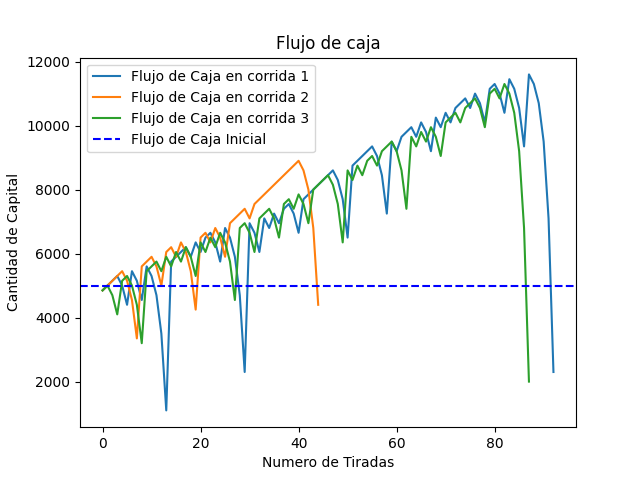
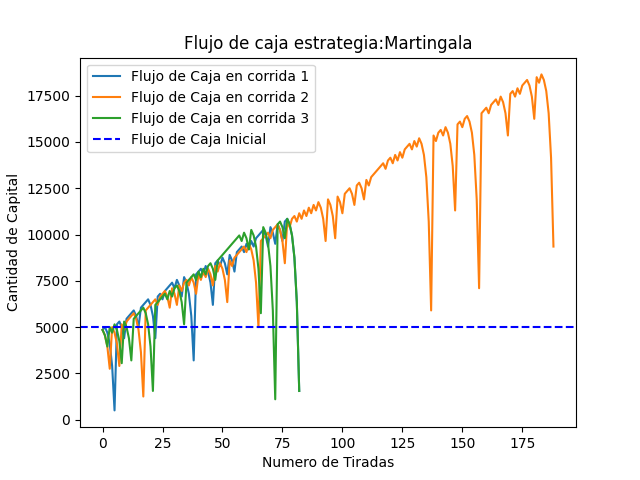
Graficas correctas

diff --git a/ruleta_1.2.py b/ruleta_1.2.py
@@ -26,6 +26,14 @@ def seq_fibonacci(n):
         fib_sequence.append(next_fib)
     return fib_sequence
 
+
+nombres_estrategia={
+'m':'Martingala',
+'f':'Fibonacci',
+'d':'Dalembert',
+'l':'Labouchere'
+}
+
 def martingala():
     monto=monto_inicial
     apuesta=apuesta_gral
@@ -207,18 +215,19 @@ def labouchere_infi():
         montoTotal.append(monto)
     return montoTotal, frecuencia
 
-def plot_flujo_caja(montoTotalCorrida,title,filename):
+def plot_flujo_caja(montoTotalCorrida,filename,estrategia):
     for i, montoTotal in enumerate(montoTotalCorrida):
         plt.plot(montoTotal,label=f'Flujo de Caja en corrida {i +1}')
     plt.xlabel('Numero de Tiradas')
     plt.ylabel('Cantidad de Capital')
-    plt.title(title)
+    nombre_estrategia=nombres_estrategia.get(estrategia,estrategia)
+    plt.title(f'Flujo de caja estrategia:{nombre_estrategia}')
     plt.axhline(y=monto_inicial, color='blue', linestyle='--',label='Flujo de Caja Inicial')
     plt.legend()
     plt.savefig(filename)
     plt.show()
 
-def plot_frecuencia_relativa(frecuencia,tiradas,corrida):
+def plot_frecuencia_relativa(frecuencia,tiradas,corrida,estrategia):
     vu, fr=np.unique(frecuencia,return_counts=True)   
     frec_rel=[]    
     for i in range(0,len(fr)):
@@ -227,10 +236,11 @@ def plot_frecuencia_relativa(frecuencia,tiradas,corrida):
     plt.xlabel('Numero de Tiradas')
     plt.ylabel('Frecuencia Relativa')
     plt.ylim(0,0.25)
-    plt.title('Frecuencia relativa de obtener apuesta favorable')
-    plt.savefig(f'grafica_frecuencia_relativa_estrategia_{estrategia}_capita_{capital}_corrida_{corrida}.png')        
+    nombre_estrategia=nombres_estrategia.get(estrategia,estrategia)
+    plt.title(f'Frecuencia relativa de obtener apuesta favorable en la corrida {corrida}-Estrategia:{nombre_estrategia}')
+    plt.savefig(f'grafica_frecuencia_relativa_estrategia_{nombre_estrategia}_capita_{capital}_corrida_{corrida}.png')        
     plt.show()
-def plot_frecuencia_relativa_infi(frecuencia,corrida):
+def plot_frecuencia_relativa_infi(frecuencia,corrida,estrategia):
     vu, fr=np.unique(frecuencia,return_counts=True)   
     frec_rel=[]    
     for i in range(0,len(fr)):
@@ -238,9 +248,10 @@ def plot_frecuencia_relativa_infi(frecuencia,corrida):
     plt.bar(vu, frec_rel, color='blue')
     plt.xlabel('Numero de Tiradas')
     plt.ylabel('Frecuencia Relativa')
-    plt.ylim(0,0.25)
-    plt.title('Frecuencia relativa de obtener apuesta favorable')
-    plt.savefig(f'grafica_frecuencia_relativa_estrategia_{estrategia}_capital_{capital}_corrida_{corrida}.png')        
+    plt.ylim(0,0.30)
+    nombre_estrategia=nombres_estrategia.get(estrategia,estrategia)
+    plt.title(f'Frecuencia relativa de obtener apuesta favorable en la corrida {corrida}-Estrategia:{nombre_estrategia}')
+    plt.savefig(f'grafica_frecuencia_relativa_estrategia_{nombre_estrategia}_capital_{capital}_corrida_{corrida}.png')        
     plt.show()    
 montoTotalCorrida=[]
 for corrida in range(1,num_corridas+1):
@@ -250,34 +261,34 @@ for corrida in range(1,num_corridas+1):
     if estrategia =='m' and capital=='f':
         martingala()
         montoTotalCorrida.append(montoTotal)
-        plot_frecuencia_relativa(frecuencia,tiradas,corrida)
+        plot_frecuencia_relativa(frecuencia,tiradas,corrida,estrategia)
     elif estrategia=='f' and capital=='f' : 
         fibonacci()
         montoTotalCorrida.append(montoTotal)
-        plot_frecuencia_relativa(frecuencia,tiradas,corrida)
+        plot_frecuencia_relativa(frecuencia,tiradas,corrida,estrategia)
     elif estrategia=='f' and capital=='i' : 
         fibonacci_infi()
         montoTotalCorrida.append(montoTotal)
-        plot_frecuencia_relativa_infi(frecuencia,corrida)
+        plot_frecuencia_relativa_infi(frecuencia,corrida,estrategia)
     elif estrategia=='d' and capital=='f':
         dalembert()
         montoTotalCorrida.append(montoTotal)
-        plot_frecuencia_relativa(frecuencia,tiradas,corrida)
+        plot_frecuencia_relativa(frecuencia,tiradas,corrida,estrategia)
     elif estrategia=='d' and capital=='i':
         dalembert_infi()
         montoTotalCorrida.append(montoTotal)
-        plot_frecuencia_relativa_infi(frecuencia,corrida)
+        plot_frecuencia_relativa_infi(frecuencia,corrida,estrategia)
     elif estrategia == 'm' and capital =='i':
         martingala_infi()
         montoTotalCorrida.append(montoTotal)
-        plot_frecuencia_relativa_infi(frecuencia,corrida)
+        plot_frecuencia_relativa_infi(frecuencia,corrida,estrategia)
     elif estrategia=='l' and capital=='f':
         montoTotal,frecuencia=labouchere()
         montoTotalCorrida.append(montoTotal)
-        plot_frecuencia_relativa(frecuencia,tiradas,corrida)
+        plot_frecuencia_relativa(frecuencia,tiradas,corrida,estrategia)
     elif estrategia=='l' and capital=='i':
         montoTotal,frecuencia=labouchere_infi()
         montoTotalCorrida.append(montoTotal)
-        plot_frecuencia_relativa_infi(frecuencia,corrida)
+        plot_frecuencia_relativa_infi(frecuencia,corrida,estrategia)
 
-plot_flujo_caja(montoTotalCorrida,'Flujo de caja',f'flujo_caja_estrategia_{estrategia}_capital_{capital}')
+plot_flujo_caja(montoTotalCorrida,f'flujo_caja_estrategia_{estrategia}_capital_{capital}',estrategia)
